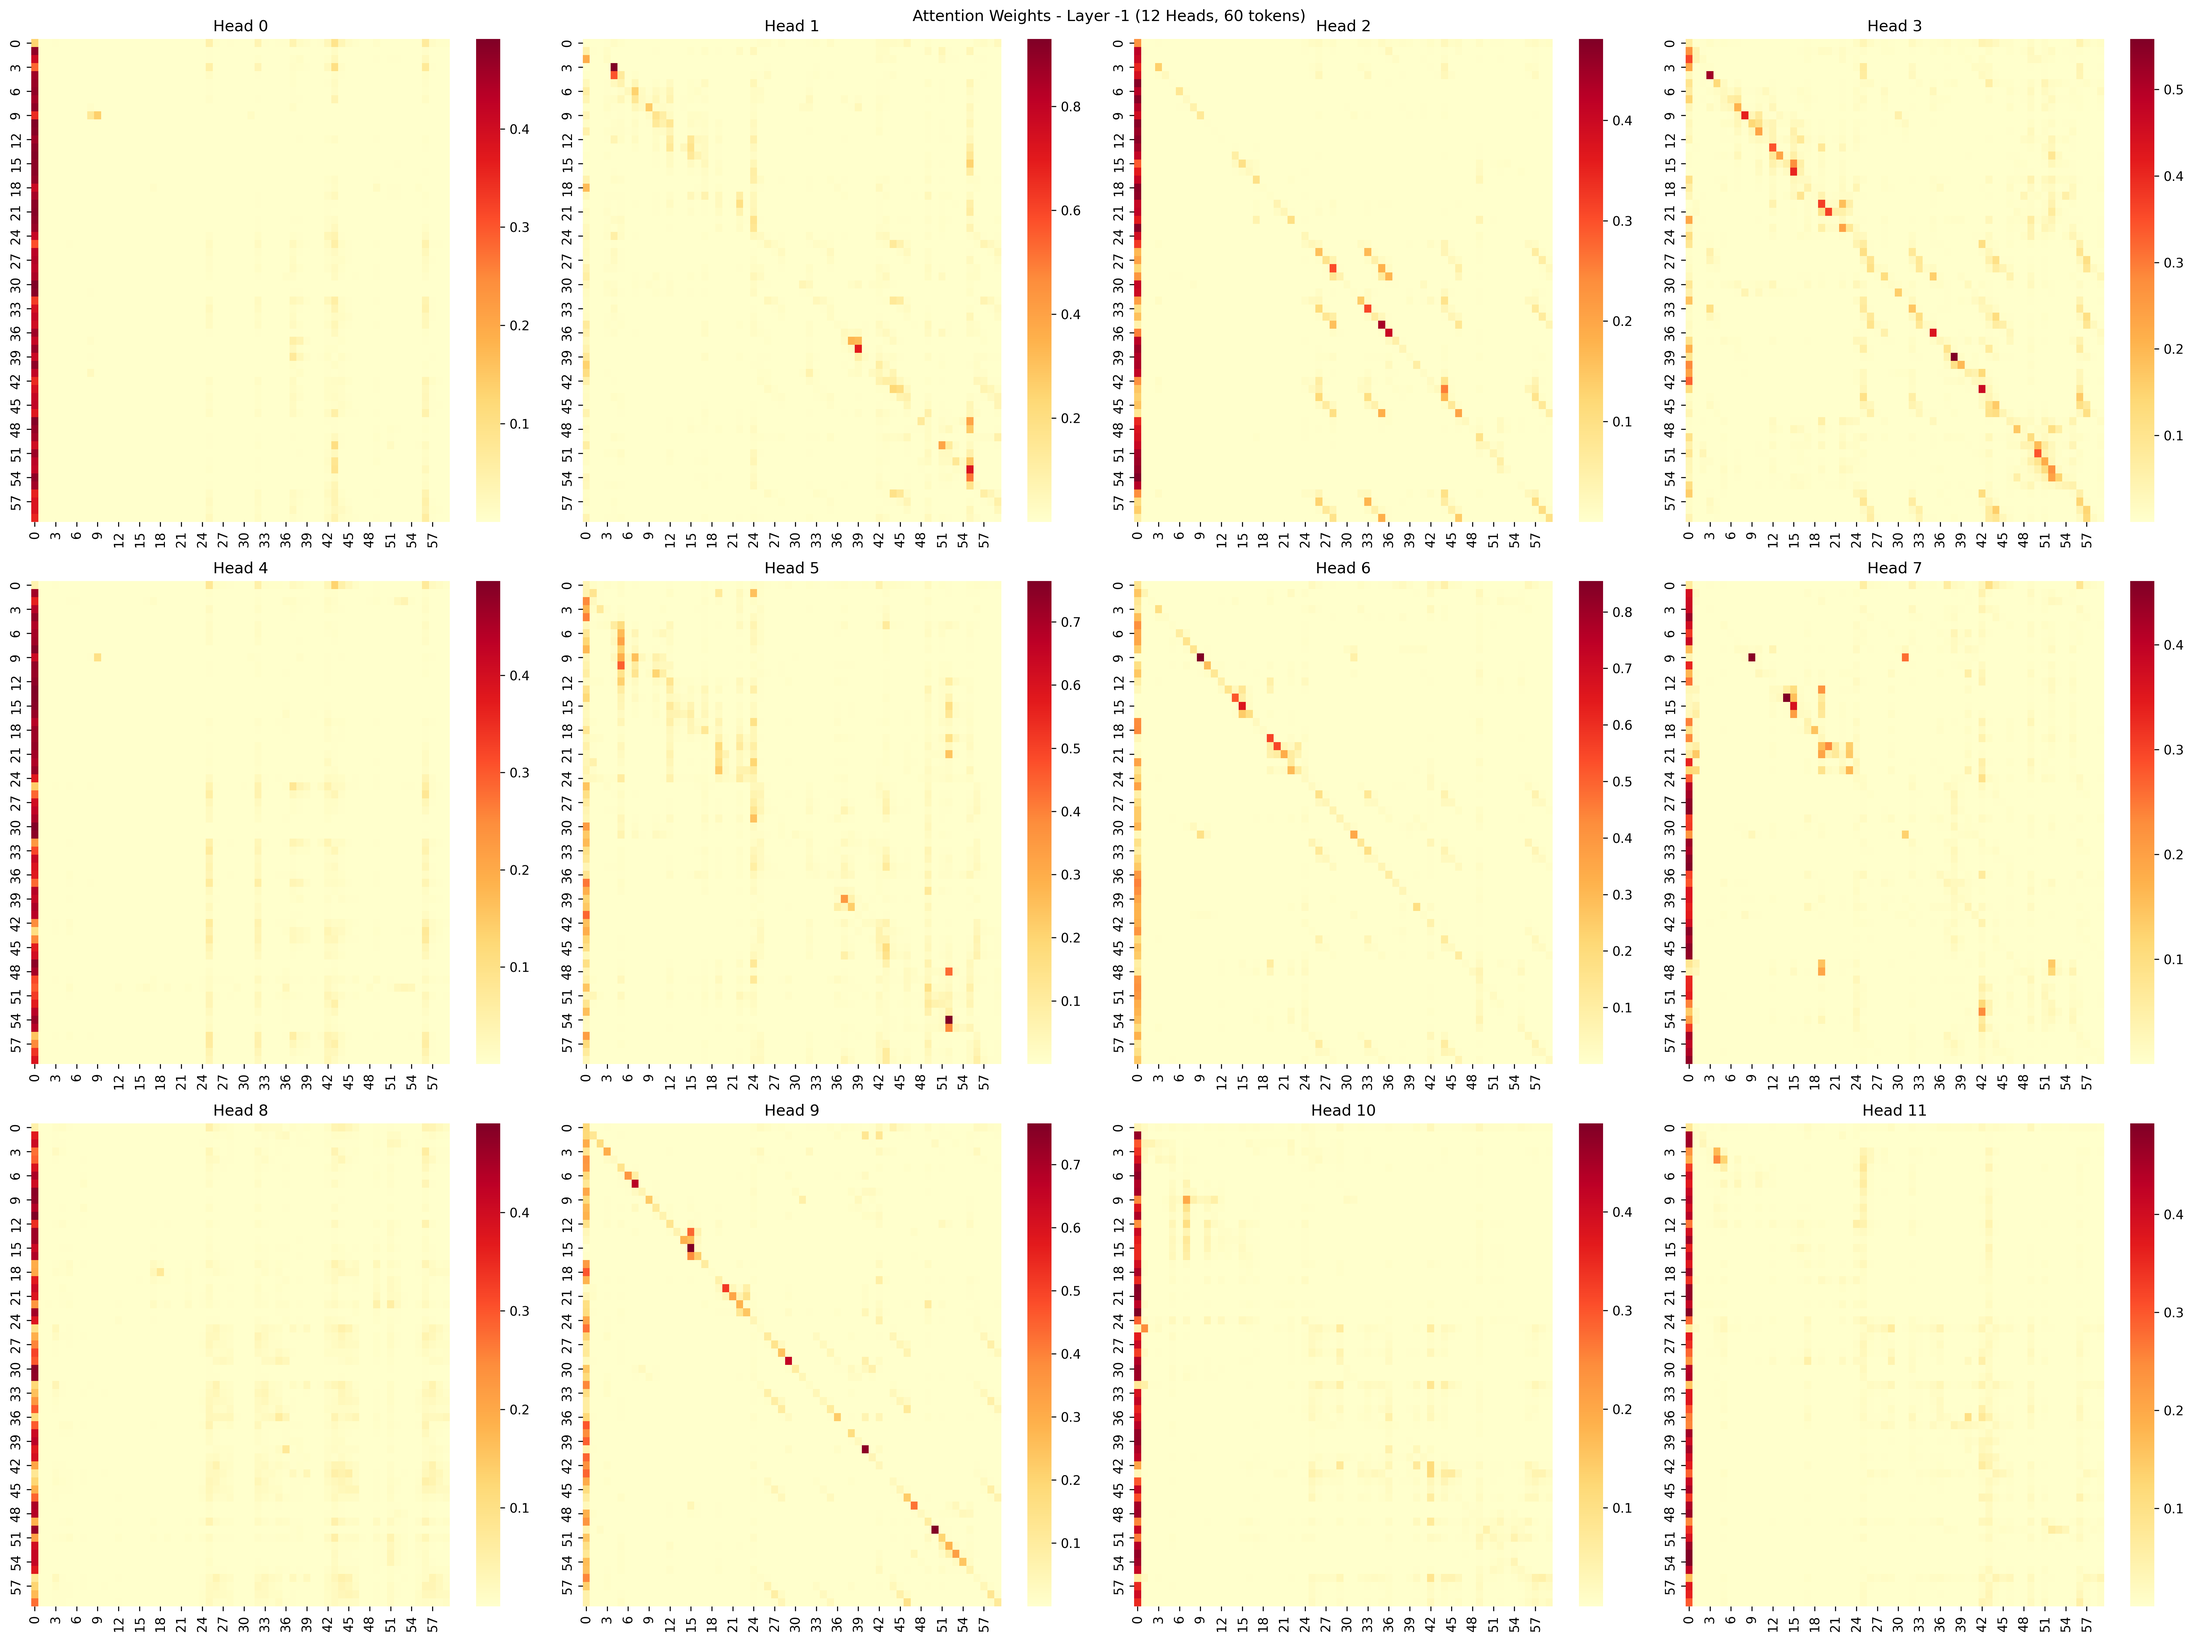
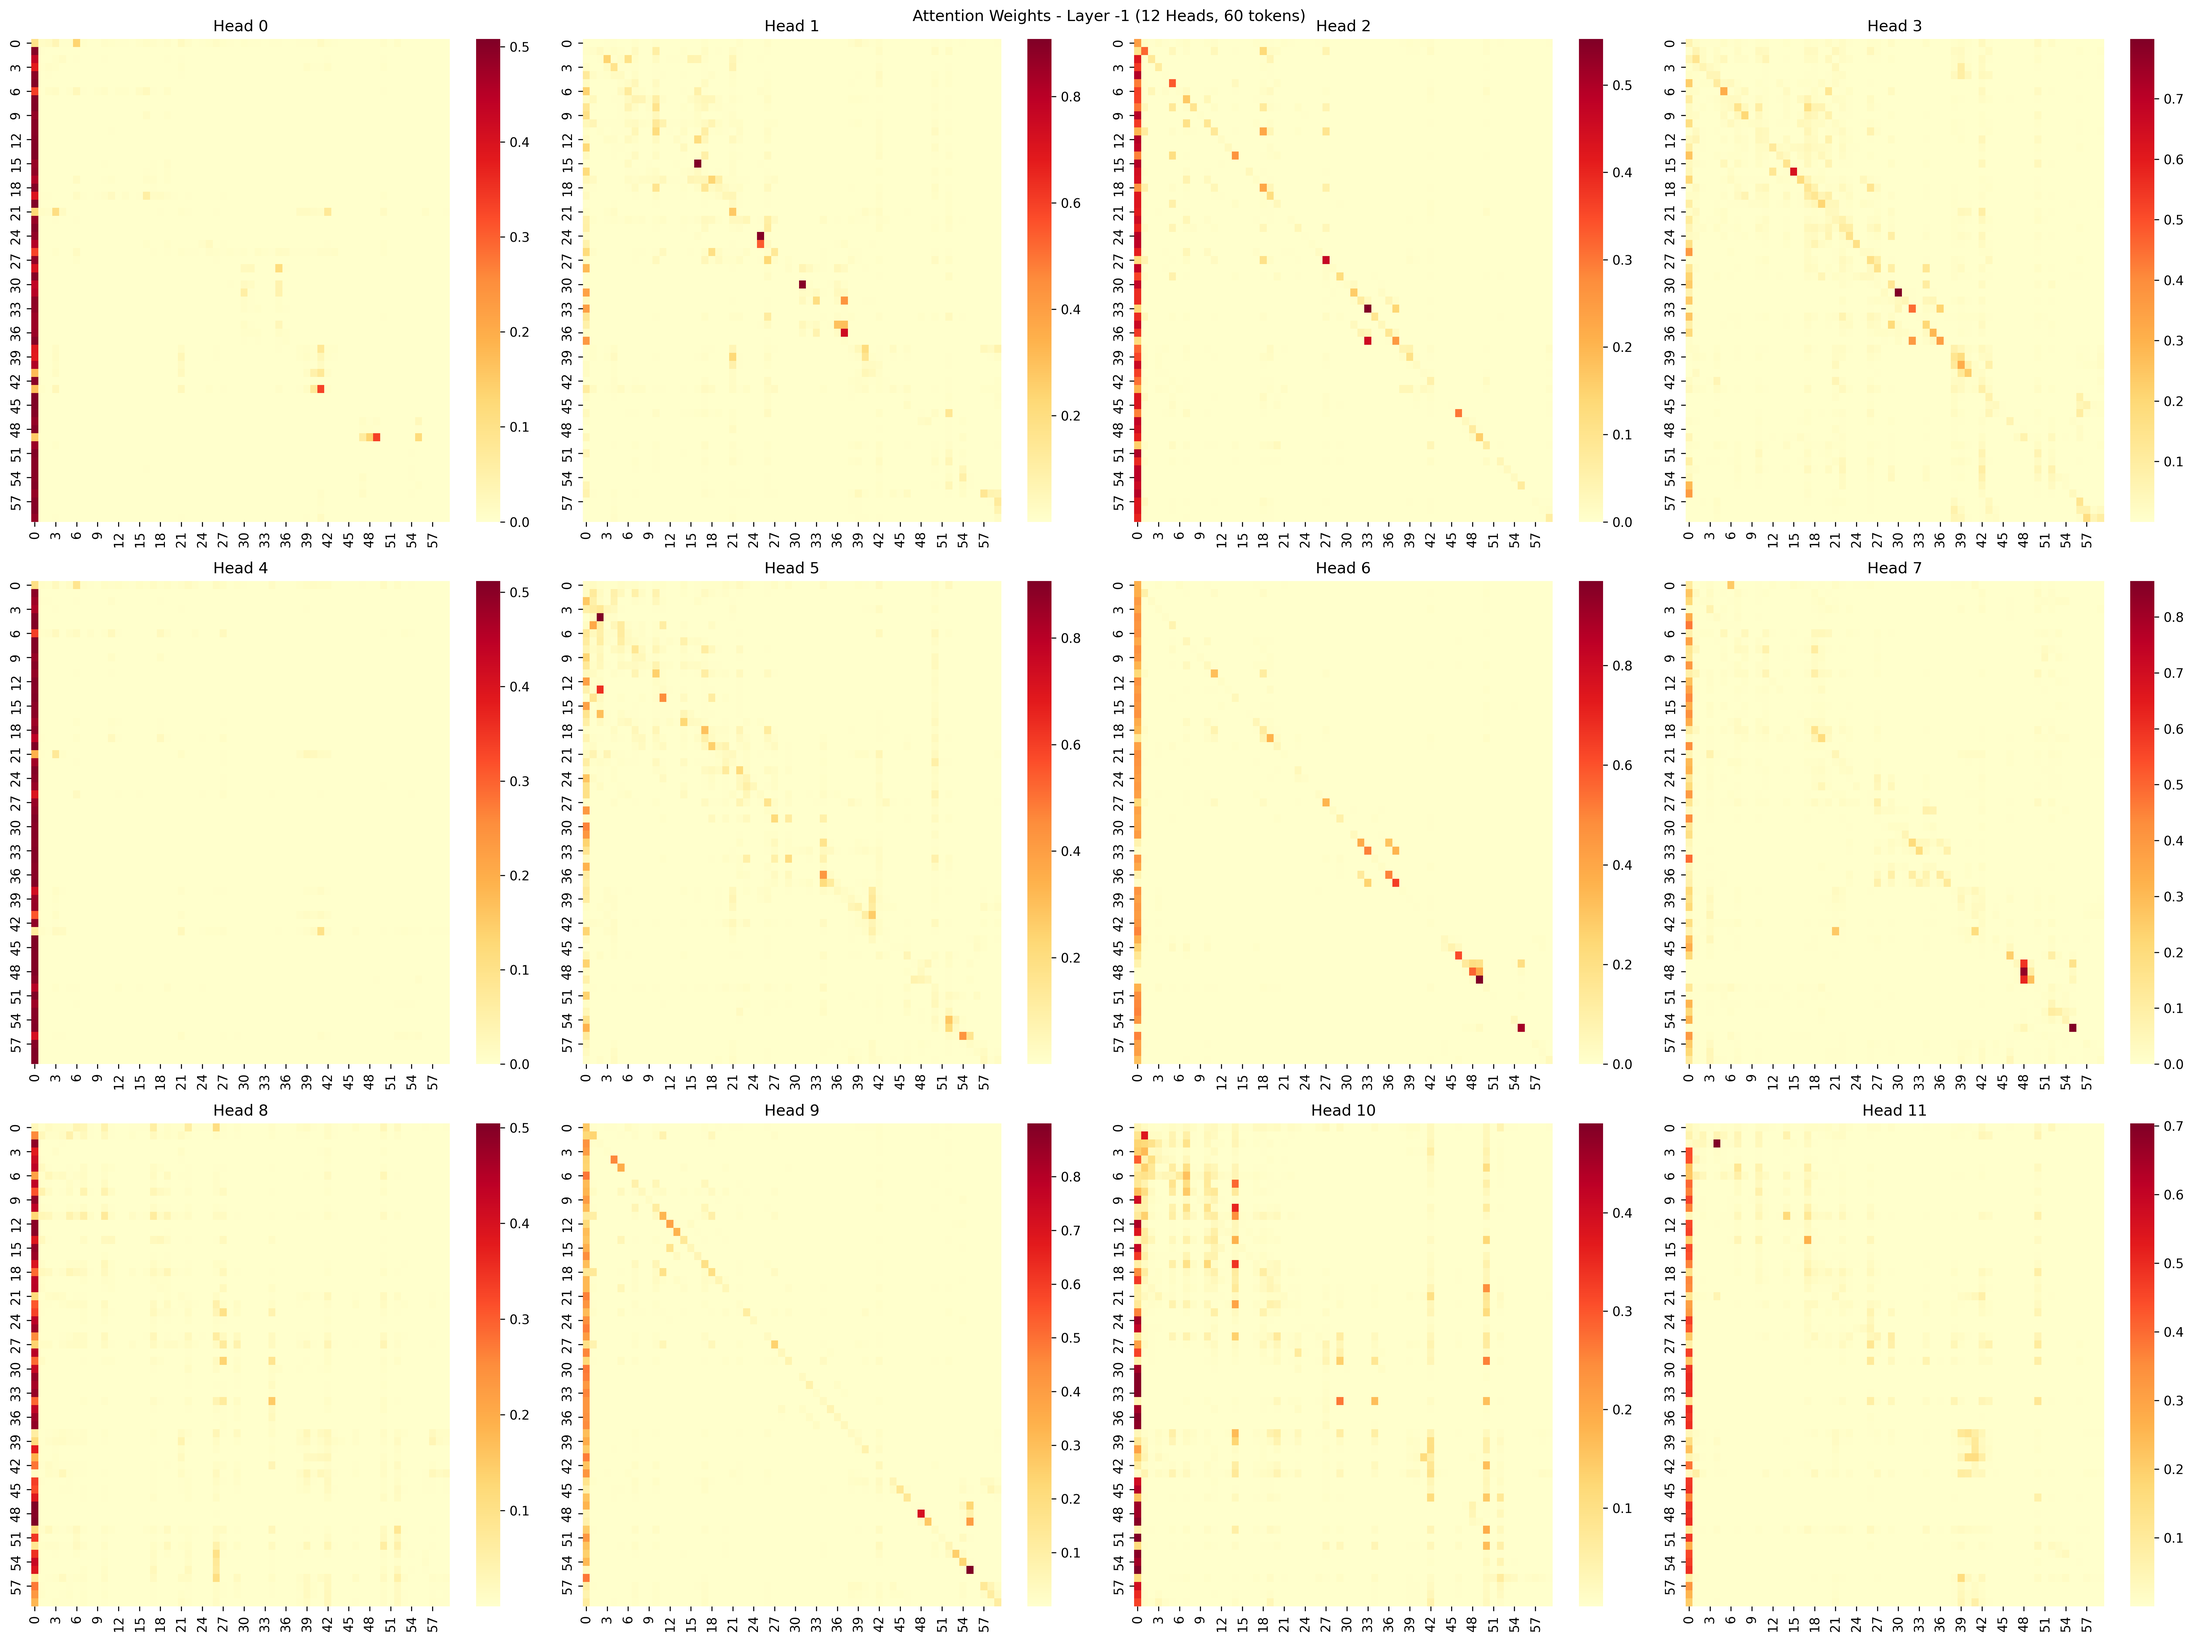
Update README and results for the November 2026 retrain
Test metrics, confusion matrix and attention heatmap now come from the
adapter retrained on the group-aware splits: 93.93% accuracy, 91.89%
precision, 96.13% recall on 1,895 test samples at the 0.7 threshold.

README: describe how the test set is split, label the error rates, and
add a Limitations section (single generator, stylistic signal, dataset
as the remaining limit). README and PYPI.md: reword the Overview, give
the post-cleaning sample count, and tell upgraders to run aegis-cleanup
so the new model is downloaded.

uv.lock: sync the project version to 1.0.1.

diff --git a/README.md b/README.md
@@ -3,7 +3,7 @@
 ## Overview
 Aegis is a fine-tuned CodeBERT model designed to classify AI-generated and human Python code. While CodeBERT contains 125 million parameters, Aegis was efficiently trained locally using LoRA (Low-Rank Adaptation), updating only a subset of the original parameters.
 
-This project investigates classifying code based on semantic differences. Consequently, the dataset (20K Python samples: 10K AI + 10K Human) was aggressively cleaned to ensure standard formatting and the removal of comments and docstrings. A confidence threshold of 0.7 was established to flag samples as AI-generated only when strong evidence exists. Aegis is not a definitive judge; predictions can be imperfect, particularly in tasks where semantic convergence between humans and AI is observed (e.g., LeetCode solutions).
+This project investigates whether AI-generated and human-written code can be told apart from the code itself. Consequently, the dataset (20K raw Python samples: 10K AI + 10K Human; 18,888 after cleaning and deduplication) was aggressively cleaned to ensure standard formatting and the removal of comments and docstrings. A confidence threshold of 0.7 was established to flag samples as AI-generated only when strong evidence exists. Aegis is not a definitive judge; predictions can be imperfect, particularly in tasks where semantic convergence between humans and AI is observed (e.g., LeetCode solutions).
 
 ## Installation
 
@@ -42,22 +42,30 @@ pip uninstall aegis-detect
 - On first run, the model adapter is downloaded from the Hugging Face repo [anthonyq7/aegis](https://huggingface.co/anthonyq7/aegis) and cached under `~/.aegis/models`.
 - Internet access is required on the first run; subsequent runs use local cache. 
 - The CLI prints the predicted label and probabilities for human and AI.
+- If you are upgrading from 1.0.0 or earlier, run `aegis-cleanup` once so the current model is downloaded; otherwise the previously cached model keeps being used.
 
 ## Key Results
 
 ### Model Performance
-- **Accuracy**: 85.10%
-- **Precision**: 83.37%
-- **Recall**: 87.70%
-- **F1-Score**: 85.48%
-- **False Positive**: 17.5%
-- **False Negative**: 12.3%
+Measured at the 0.7 threshold on a held-out test set of 1,895 samples (964 human, 931 AI). Each AI sample written from a specific human sample is kept in the same split as that sample. The exception is the competitive-programming portion, where a human and an AI solution to the same problem can fall in different splits.
+
+- **Accuracy**: 93.93%
+- **Precision**: 91.89%
+- **Recall**: 96.13%
+- **F1-Score**: 93.96%
+- **False Positive Rate**: 8.2% of human samples flagged as AI
+- **False Negative Rate**: 3.9% of AI samples classified as human
 
 ### Confusion Matrix
 ![Alt text](model/results/confusion_matrix.png)
 
 ### Attention Heatmap
 ![Alt text](model/results/attention_weights.png)
+
+## Limitations
+The results above are in-distribution. The AI samples come from a single generator (GPT-5.1-codex-mini) under three prompt styles, and the human samples from The Stack and competitive-programming solutions. Much of the signal is stylistic: type hints appear in 73% of the AI training samples and 9% of the human ones. Expect lower accuracy on code from other models or prompts, and on human code written in a modern, type-annotated style.
+
+The November 2026 retrain fixed leakage between the data splits, standardized every sample the same way, and lowered the learning rate. With those fixed, further training changes are unlikely to be meaningful: the remaining limit is the dataset. Improving it would take AI samples from more than one model, prompts that don't dictate coding style, and human samples that better match modern Python.
 
 ## Contact
 **Email**: a.j.qin@wustl.edu

diff --git a/PYPI.md b/PYPI.md
@@ -3,7 +3,7 @@
 ## Overview
 Aegis is a fine-tuned CodeBERT model designed to classify AI-generated and human Python code. While CodeBERT contains 125 million parameters, Aegis was efficiently trained locally using LoRA (Low-Rank Adaptation), updating only a subset of the original parameters.
 
-This project investigates classifying code based on semantic differences. Consequently, the dataset (20K Python samples: 10K AI + 10K Human) was aggressively cleaned to ensure standard formatting and the removal of comments and docstrings. A confidence threshold of 0.7 was established to flag samples as AI-generated only when strong evidence exists. Aegis is not a definitive judge; predictions can be imperfect, particularly in tasks where semantic convergence between humans and AI is observed (e.g., LeetCode solutions).
+This project investigates whether AI-generated and human-written code can be told apart from the code itself. Consequently, the dataset (20K raw Python samples: 10K AI + 10K Human; 18,888 after cleaning and deduplication) was aggressively cleaned to ensure standard formatting and the removal of comments and docstrings. A confidence threshold of 0.7 was established to flag samples as AI-generated only when strong evidence exists. Aegis is not a definitive judge; predictions can be imperfect, particularly in tasks where semantic convergence between humans and AI is observed (e.g., LeetCode solutions).
 
 ## Installation
 
@@ -42,6 +42,7 @@ pip uninstall aegis-detect
 - On first run, the model adapter is downloaded from the Hugging Face repo [anthonyq7/aegis](https://huggingface.co/anthonyq7/aegis) and cached under `~/.aegis/models`.
 - Internet access is required on the first run; subsequent runs use local cache. 
 - The CLI prints the predicted label and probabilities for human and AI.
+- If you are upgrading from 1.0.0 or earlier, run `aegis-cleanup` once so the current model is downloaded; otherwise the previously cached model keeps being used.
 
 ## Contact
 **Email**: a.j.qin@wustl.edu
